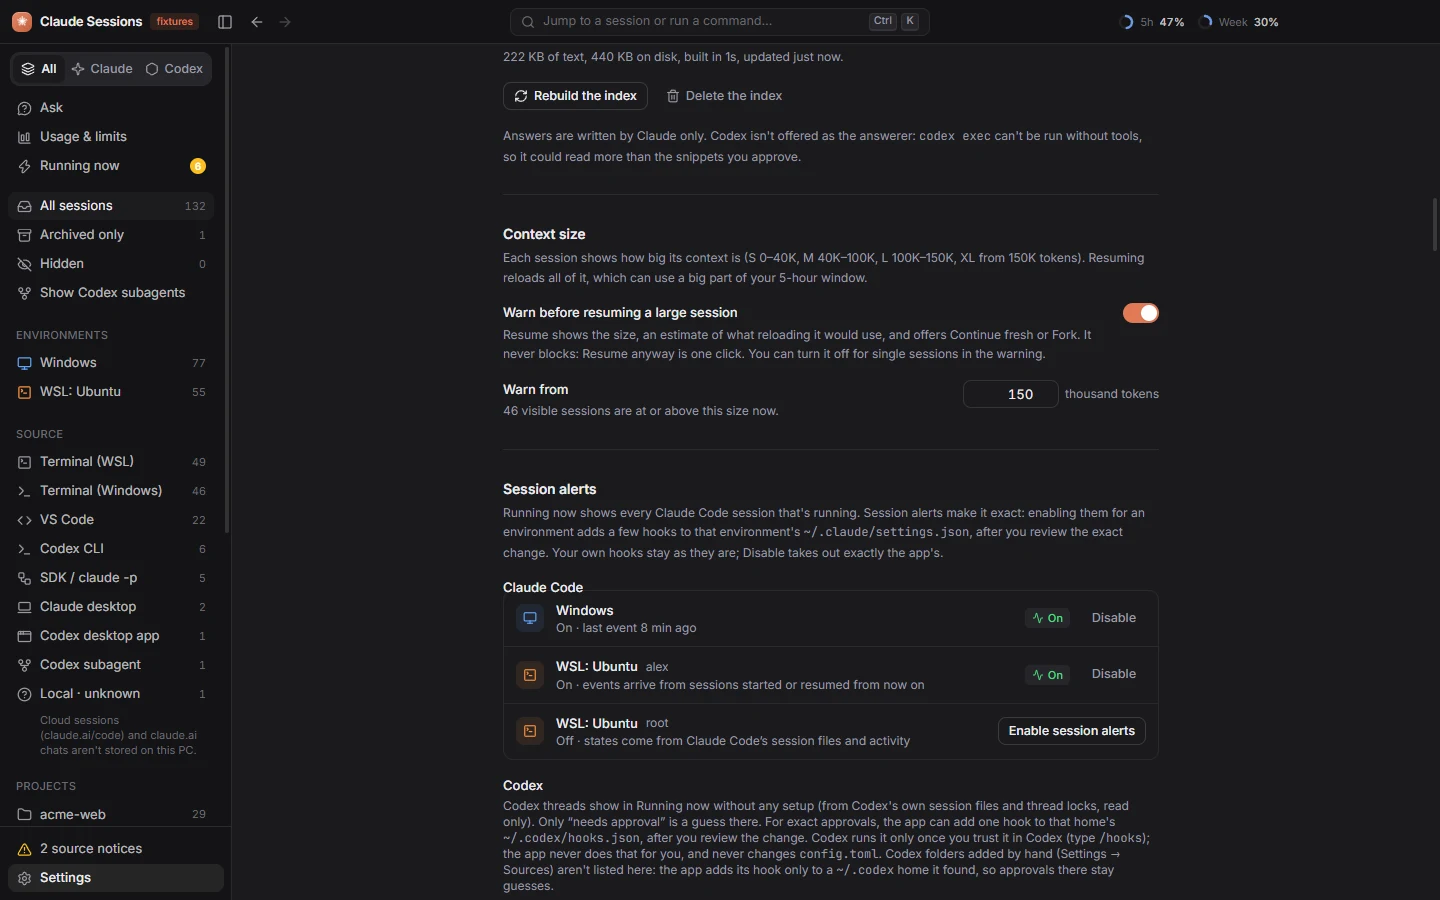
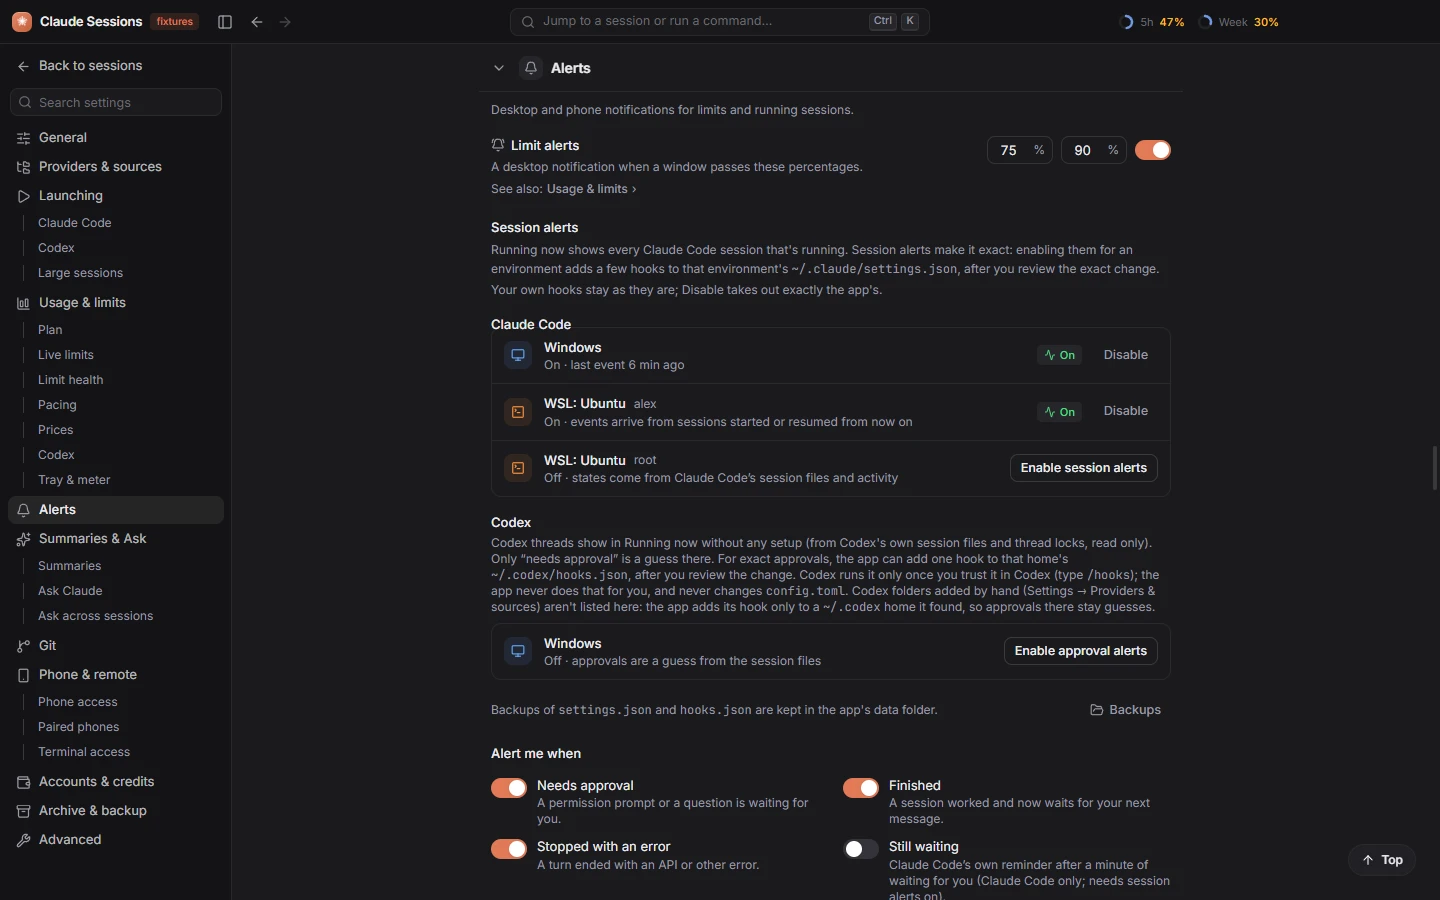
Docs: retake the Settings screenshots (light, dark, Alerts, Backup) and the phone's
Fixtures mode, the sample PC's paths (C:\Users\alex\…), not masked;
each shot was checked to show no real user name, home folder or checkout
path before it was saved. settings-dark.webp is back (the README's
<picture> uses it), and the phone's Settings tab is in DETAILS'
screenshot table.

diff --git a/docs/DETAILS.md b/docs/DETAILS.md
@@ -1875,6 +1875,7 @@ They were taken with a Playwright script that isn't in the repo; `npm run screen
 | ![Settings → Alerts](images/settings-alerts.webp)    | ![Enable live limits](images/enable-live-limits.webp) |
 | ![Command palette](images/command-palette.webp)      | ![Keyboard shortcuts](images/shortcuts.webp)          |
 
-|                                           |                                                      |                                                            |                                      |
-| ----------------------------------------- | ---------------------------------------------------- | ---------------------------------------------------------- | ------------------------------------ |
-| ![Phone: pairing](images/phone-pair.webp) | ![Phone: sessions](images/phone-sessions-light.webp) | ![Phone: Running (light)](images/phone-running-light.webp) | ![Phone: Ask](images/phone-ask.webp) |
+|                                                |                                                      |                                                            |                                      |
+| ---------------------------------------------- | ---------------------------------------------------- | ---------------------------------------------------------- | ------------------------------------ |
+| ![Phone: pairing](images/phone-pair.webp)      | ![Phone: sessions](images/phone-sessions-light.webp) | ![Phone: Running (light)](images/phone-running-light.webp) | ![Phone: Ask](images/phone-ask.webp) |
+| ![Phone: Settings](images/phone-settings.webp) |                                                      |                                                            |                                      |
